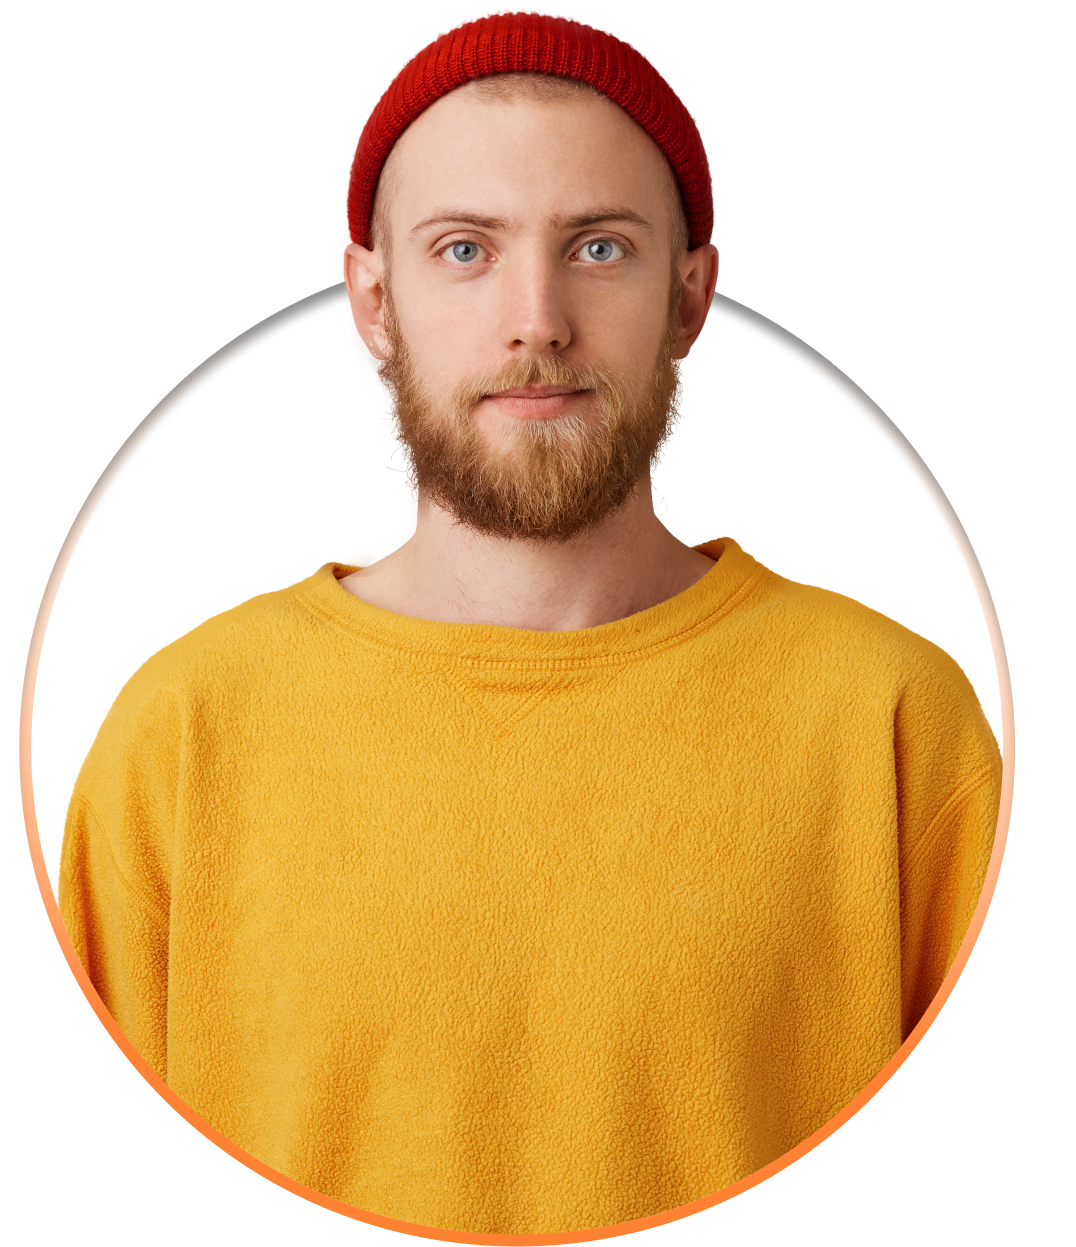
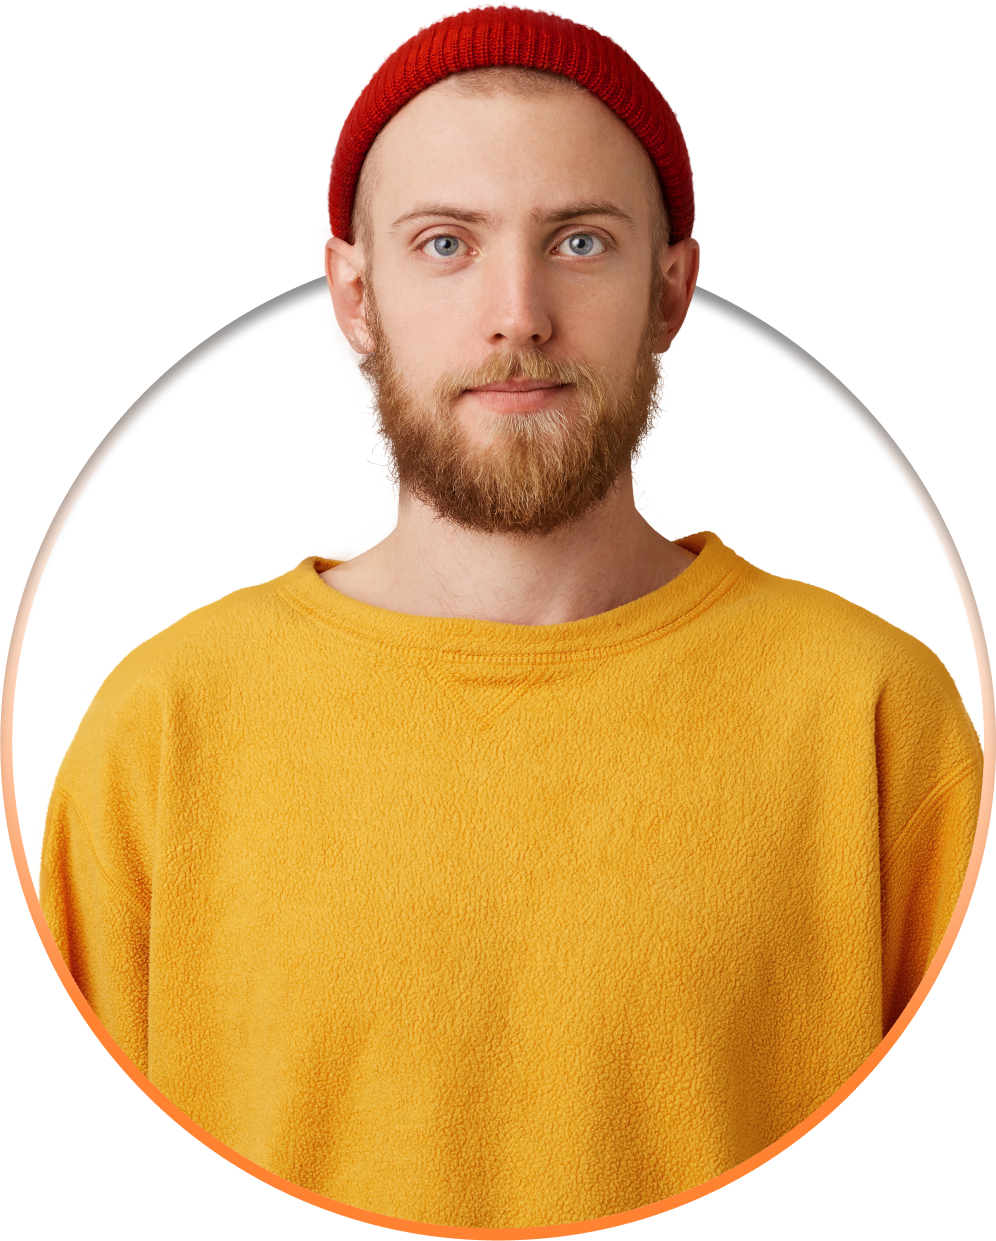
Praktyki 15/10

Changed region(s): [[0.0, 0.0, 1.0, 1.0], [0.2179, 0.245, 0.249, 0.2756]]

diff --git a/index.html b/index.html
@@ -21,38 +21,46 @@
                     <li><a class="topbar__link topbar__link--text" href="/projects/">Projects</a></li>
                     <li><a class="topbar__link topbar__link--text" href="/testimonials/">Testimonials</a></li>
                     <li><a class="topbar__link topbar__link--text" href="/contact/">Contact</a></li>
-                    <li><a class="topbar__link topbar__link--button" href="/download/">Download CV</a></li>
+                    <li><a class="topbar__link topbar__link--button button" href="/download/">Download CV</a></li>
                 </ul>
             </nav>
         </header>
     </div>
     <main>
         <section class="introduction">
-           <div class="introduction__description">
-               <div class="introduction__textbox">
-                   <p class="introduction__text introduction__text--small">Hi I am</p>
-                   <p class="introduction__text introduction__text--medium">Fawzi Sayed</p>
-                   <p class="introduction__textlarge introduction__textlarge--first">UI & UX</p>
-                   <p class="introduction__textlarge introduction__textlarge--second">Designer</p>
-                   <p class="introduction__text introduction__text--smallest">Lorem ipsum dolor sit amet consectetur. Tristique amet sed massa nibh lectus netus in. Aliquet donec morbi convallis pretium. Turpis tempus pharetra</p>
-               </div>
-               <button class="button">Hire Me</button>
-           </div> 
-          <img class="introduction__portrait" src="./assets/image.png" alt="">
-         <div class="introduction__images"></div>
-           <a href=""><img class="introduction__logo introduction__logo--facebook" src="./assets/facebook.png" alt=""></a>
-           <a href=""><img class="introduction__logo introduction__logo--twitter" src="./assets/twitter.png" alt=""></a>
-           <a href=""><img class="introduction__logo introduction__logo--instagram" src="./assets/instagram.png" alt=""></a>
-           <a href=""><img class="introduction__logo introduction__logo--linkedin" src="./assets/linkedin.png" alt=""></a>
-        </div>
+            <div class="introduction__description">
+                <div class="introduction__textbox">
+                    <p class="introduction__text introduction__text--small">Hi I am</p>
+                    <p class="introduction__text introduction__text--medium">Fawzi Sayed</p>
+                    <p class="introduction__textlarge introduction__textlarge--first">UI & UX</p>
+                    <p class="introduction__textlarge introduction__textlarge--second">Designer</p>
+                    <p class="introduction__text introduction__text--smallest">Lorem ipsum dolor sit amet consectetur. Tristique amet sed massa nibh lectus netus in. Aliquet donec morbi convallis pretium. Turpis tempus pharetra</p>
+                </div>
+                <button class="button introduction__button">Hire Me</button>
+            </div> 
+            <div class="introduction__presentation">
+                <img class="introduction__portrait" src="./assets/image.png" alt="">
+                <ul class="introduction__logos">
+                    <li><a href=""><img class="introduction__logo introduction__logo--facebook" src="./assets/facebook.png" alt=""></a></li>
+                    <li><a href=""><img class="introduction__logo introduction__logo--twitter" src="./assets/twitter.png" alt=""></a></li>
+                    <li><a href=""><img class="introduction__logo introduction__logo--instagram" src="./assets/instagram.png" alt=""></a></li>
+                    <li><a href=""><img class="introduction__logo introduction__logo--linkedin" src="./assets/linkedin.png" alt=""></a></li>
+                </ul>
+            </div>
         </section>
-         <section class="about">
+        <section class="about">
             <img class="about__portrait" src="./assets/image2.png" alt="">
              <div class="about__textbox">
                    <p class="about__text about__text--big">About Me</p>
                    <p class="about__text about__text--small">Lorem ipsum dolor sit amet consectetur. Tristique amet sed massa nibh lectus netus in. Aliquet donec morbi convallis pretium. Turpis tempus pharetra</p>
-                   <p class="about__text about__text--bold">UX</p>
-                   <p class="about__text about__text--bold">Website Design</p>
+                   <p class="about__text about__text--bold">
+                        UX
+                        <div class="progressbar progressbar--80"><div></div></div>
+                    </p>
+                   <p class="about__text about__text--bold">
+                        Website Design
+                        <div class="progressbar progressbar--60"><div></div></div>
+                    </p>
                    <p class="about__text about__text--bold">App Design</p>
                    <p class="about__text about__text--bold">Graphic Design</p>
                </div>

diff --git a/style.css b/style.css
@@ -47,26 +47,14 @@ html, body {
     color: #000000;
 }
 
-    .topbar__link--text:hover {
-        text-decoration: underline;
-    }
+.topbar__link--text:hover {
+    text-decoration: underline;
+}
 
-    .topbar__link--button {
-        color: #ffffff;
-        background-color: #ff8233;
-        border-radius: 5px;
-    }
-
-    .topbar__link--button:hover {
-        background-color: #ffffff;
-        color: #ff8233;
-        transition-timing-function: ease-out;
-        transition-duration: .3s;
-        transition-property: background-color, color;
-    }
-
-.introduction__text {
-    color: #000000;
+.topbar__link--button {
+    color: #ffffff;
+    background-color: #ff8233;
+    border-radius: 5px;
 }
 
 .introduction {
@@ -77,13 +65,21 @@ html, body {
     display: flex;
     align-items: center;
     justify-content: space-between;
-}   
+}
+
+.introduction__textbox {
+    padding-left: 7px;
+}
+
+.introduction__text {
+    color: #000000;
+}
 
 .introduction__text--small {
     font-weight: 600;
     font-size: 24px;
     line-height: 100%;
-    margin-left: 7px;
+    margin: 0;
 }
 
 .introduction__text--medium {
@@ -91,13 +87,7 @@ html, body {
    font-weight: 600;
    font-size: 32px;
    line-height: 100%;
-   margin-left: 4px;
-}
-
-.introduction__text--smallest {
-   margin-left: 7px;
-   margin-top: -50px;
-   font-size: 21px;
+   margin: 16px 0 0;
 }
 
 .introduction__textlarge {
@@ -107,28 +97,47 @@ html, body {
 }
 
 .introduction__textlarge--first {
-    margin-top: -25px;
+    margin: 0;
 }
 .introduction__textlarge--second {
-    margin-left: 210px;
-    margin-top: -100px;
+    text-align: right;
+    margin: 0;
 }
 
-.introduction__portrait {
-    width: 538px;
-    margin-left: 160px;
+.introduction__text--smallest {
+   margin: 28px 0 22px;
+   font-size: 21px;
 }
 
 .introduction__description {
-    width: calc(100% - 538px - 157px);
+    width: calc(100% - 487px - 219px);
 }
 
-
 .introduction__logo {
-    justify-self: baseline;
-    margin-top: 775px;
-    margin-left: 25.03px;
+    /* display: inline-block; */
+    /* justify-self: baseline; */
     width: 32.48px;
+}
+
+.introduction__presentation {
+    width: 487px;
+    margin-left: 160px;
+}
+
+.introduction__portrait {
+    width: 100%;
+}
+
+.introduction__logos {
+    padding: 0;
+    display: flex;
+    align-items: center;
+    justify-content: center;
+}
+
+.introduction__logos li {
+    list-style: none;
+    margin-left: 15px;
 }
 
 .about {
@@ -159,7 +168,7 @@ html, body {
     font-weight: 600;
 }
 
-.button {
+.introduction__button {
     color: #ffffff;
     background-color: #ff8233;
     border-radius: 5px;
@@ -174,4 +183,101 @@ html, body {
     padding: 17.5px 52.5px;
     letter-spacing: 0.5px;  
     border-width: 0;
+    cursor: pointer;
 }
+
+.progressbar {
+    background-color: #EDECEC;
+    border-radius: 6px;
+    width: 100%;
+    height: 12px;
+    position: relative;
+}
+
+.progressbar::before {
+    content: '';
+    position: absolute;
+    height: 100%;
+    background-color: #ff8233;
+    border-radius: 6px;
+    top: 0;
+    left: 0;
+    bottom: 0;
+}
+
+.progressbar > div {
+    background-color: #EDECEC;
+    width: 32px;
+    height: 32px;
+    border: 3px solid #ff8233;
+    border-radius: 50%;
+    position: absolute;
+    z-index: 2;
+    top: 50%;
+    transform: translate(-50%, -50%);
+}
+
+.progressbar--60::before {
+    width: 60%;
+}
+
+.progressbar--60 > div {
+    left: 60%;
+}
+
+/* width: calc(33.3333% - 15px); */
+.progressbar--80::before {
+    width: 80%;
+}
+
+.progressbar--80 > div {
+    left: 80%;
+}
+
+.button:hover {
+    background-color: #ffffff;
+    color: #ff8233;
+    transition-timing-function: ease-out;
+    transition-duration: .3s;
+    transition-property: background-color, color;
+}
+
+@media screen and (min-width: 1025px) and (max-width: 1249.98px) {
+    .introduction__description {
+        width: calc(100% - 487px - 25px);
+    }
+    .introduction__presentation {
+        margin-left: 0;
+    }
+}
+
+@media screen and (min-width: 768px) and (max-width: 1024.98px) {
+    .introduction__description {
+        width: calc(100% - 280px - 25px);
+    }
+    .introduction__presentation {
+        margin-left: 0;
+        width: 280px;
+    }
+}
+
+@media screen and (max-width: 767.98px) {
+    .introduction {
+        flex-direction: column;
+    }
+    .introduction__description {
+        width: 100%;
+    }
+    .introduction__presentation {
+        margin: 20px 0 0;
+        width: 50%;
+        min-width: 280px;
+    }
+    .introduction__textlarge--first {
+        font-size: 63px;
+    }
+    .introduction__textlarge--second {
+        font-size: 63px;
+    }
+}
+
